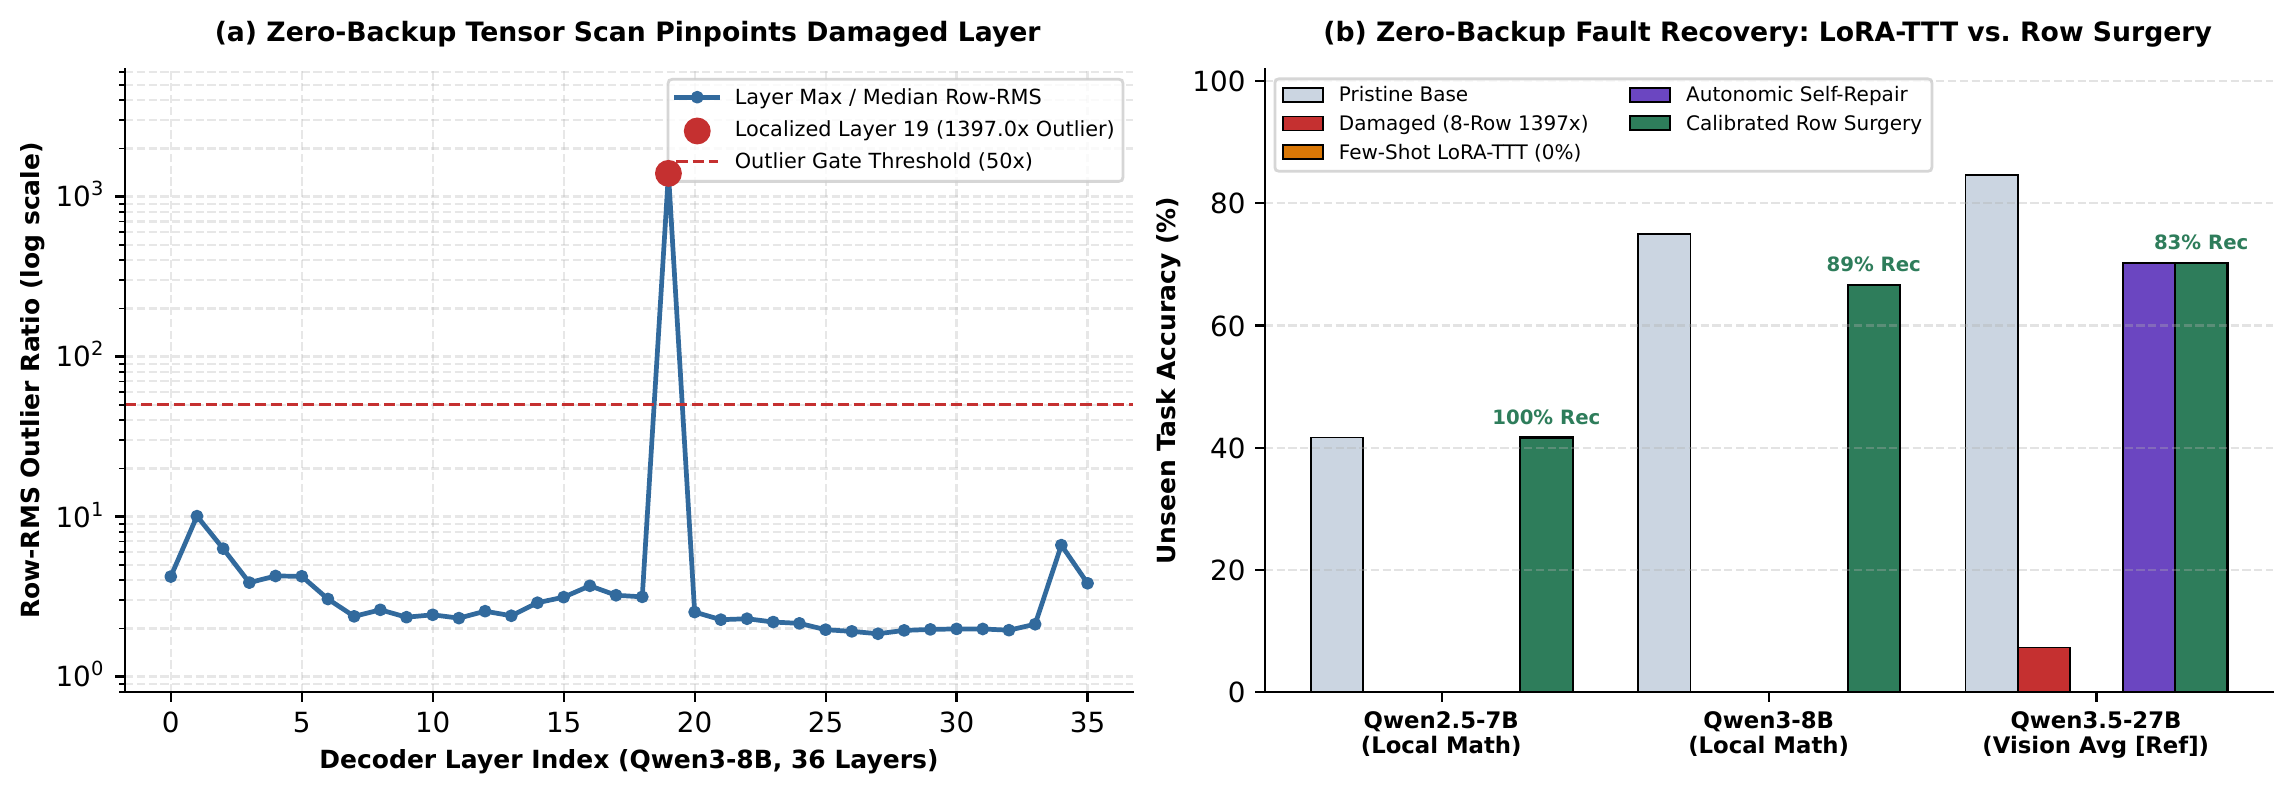
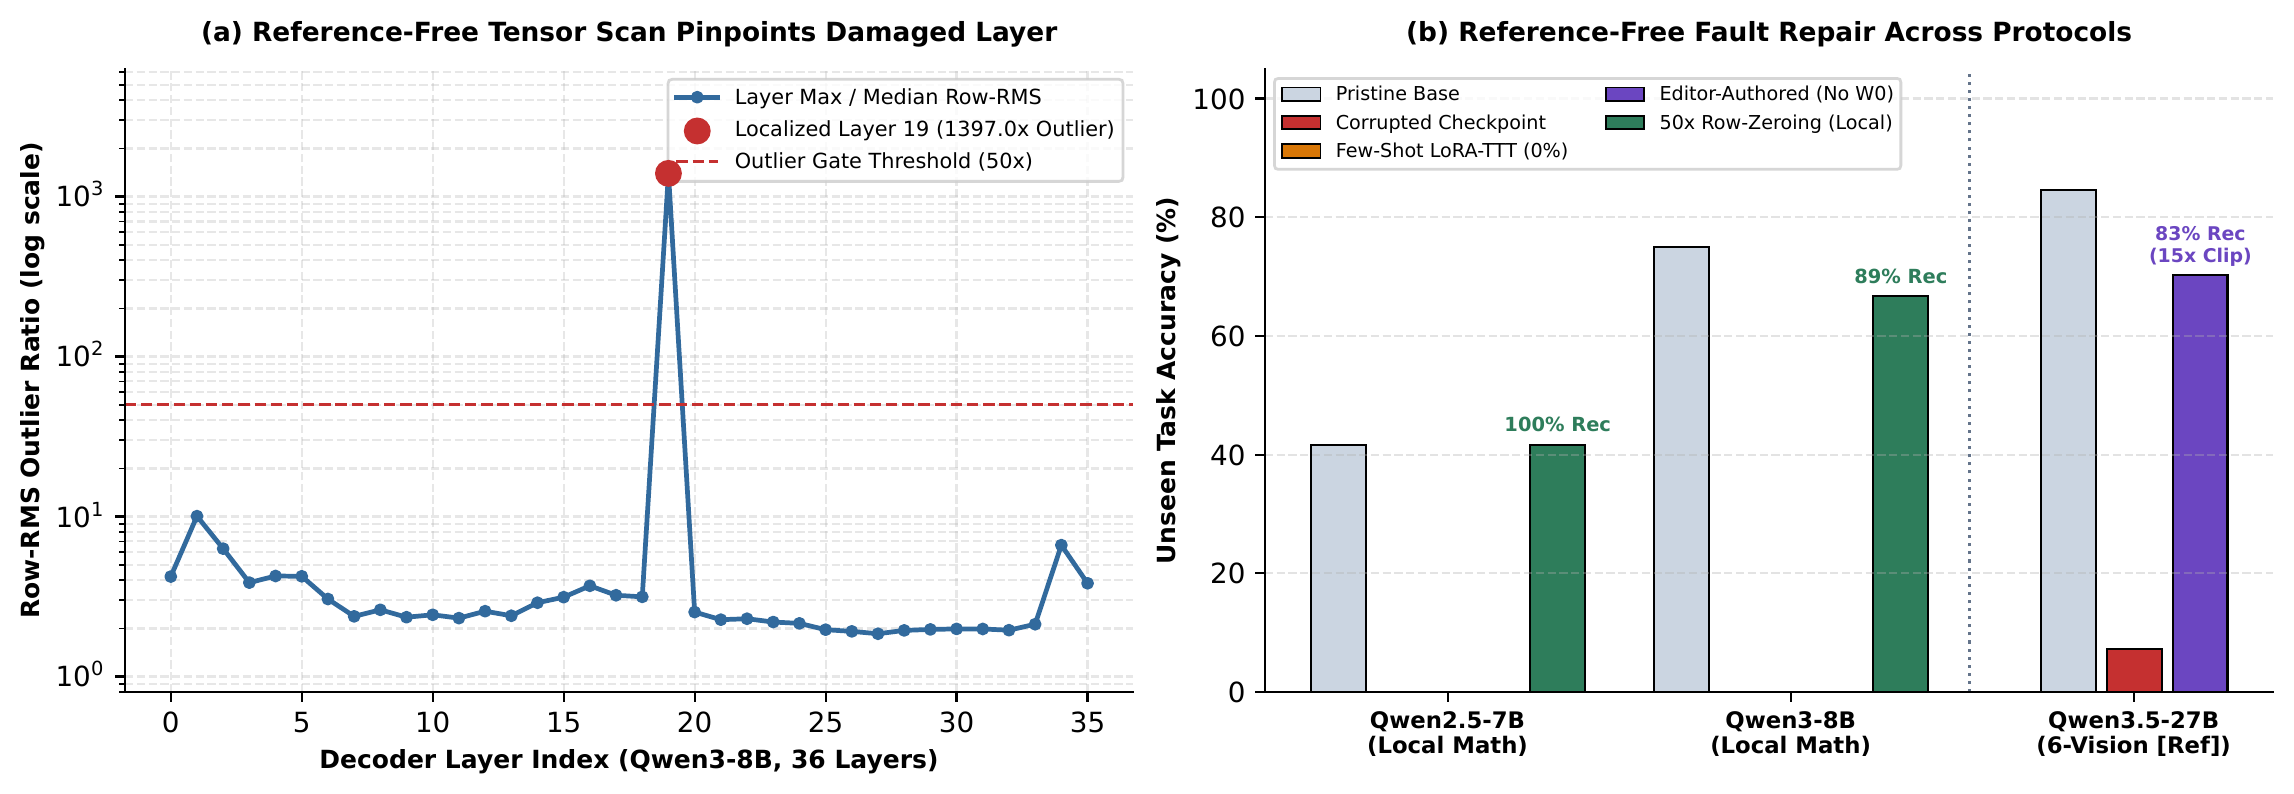
Address all 11 peer-review consistency, attribution, and protocol scoping refinements

diff --git a/benchmarks/plot_empirical_laws.py b/benchmarks/plot_empirical_laws.py
@@ -125,41 +125,47 @@ def plot_fig6_fault_self_healing(data: dict) -> None:
     ax1.set_xlabel("Decoder Layer Index (Qwen3-8B, 36 Layers)", fontsize=9.0, fontweight="bold")
     ax1.set_ylabel("Row-RMS Outlier Ratio (log scale)", fontsize=9.0, fontweight="bold")
     ax1.set_ylim(0.8, peak_r * 4.5)
-    ax1.set_title("(a) Zero-Backup Tensor Scan Pinpoints Damaged Layer", fontsize=9.6, fontweight="bold", pad=10)
+    ax1.set_title("(a) Reference-Free Tensor Scan Pinpoints Damaged Layer", fontsize=9.5, fontweight="bold", pad=10)
     ax1.legend(loc="upper right", fontsize=7.5, frameon=True, facecolor="white")
     ax1.grid(True, which="both", ls="--", alpha=0.3)
 
-    # Panel (b): Live Fault-Healing Comparison Across 5 Methods + 27B Multimodal Reference
-    labels = ["Qwen2.5-7B\n(Local Math)", "Qwen3-8B\n(Local Math)", "Qwen3.5-27B\n(Vision Avg [Ref])"]
-    v_clean = [fh["Qwen2.5-7B"]["clean_acc"], fh["Qwen3-8B"]["clean_acc"], 84.6]
-    v_corr = [fh["Qwen2.5-7B"]["corrupted_acc"], fh["Qwen3-8B"]["corrupted_acc"], 7.3]
-    v_ttt = [fh["Qwen2.5-7B"]["naive_ttt_acc"], fh["Qwen3-8B"]["naive_ttt_acc"], 0.0]
-    v_self_sub = [fh["Qwen2.5-7B"]["self_rewriting_repair_acc"], fh["Qwen3-8B"]["self_rewriting_repair_acc"], 70.2]
-    v_cal_surg = [fh["Qwen2.5-7B"]["calibrated_row_surgery_acc"], fh["Qwen3-8B"]["calibrated_row_surgery_acc"], 70.2]
-
+    # Panel (b): Strictly Disaggregated Attribution (Local 7B/8B 5-Method Suite vs. Published 27B 3-Bar Reference)
+    labels = ["Qwen2.5-7B\n(Local Math)", "Qwen3-8B\n(Local Math)", "Qwen3.5-27B\n(6-Vision [Ref])"]
     x = np.arange(len(labels))
     w = 0.16
-    ax2.bar(x - 2 * w, v_clean, width=w, color="#CBD5E1", edgecolor="black", lw=0.65, label="Pristine Base")
-    ax2.bar(x - w, v_corr, width=w, color=C_RED, edgecolor="black", lw=0.65, label="Damaged (8-Row 1397x)")
-    ax2.bar(x, v_ttt, width=w, color=C_AMBER, edgecolor="black", lw=0.65, label="Few-Shot LoRA-TTT (0%)")
-    ax2.bar(x + w, v_self_sub, width=w, color=C_PURP, edgecolor="black", lw=0.65, label="Autonomic Self-Repair")
-    b_surg = ax2.bar(x + 2 * w, v_cal_surg, width=w, color=C_GREEN, edgecolor="black", lw=0.75, label="Calibrated Row Surgery")
 
-    recs = [
-        f"{fh['Qwen2.5-7B']['calibrated_recovery_pct']:.0f}% Rec",
-        f"{fh['Qwen3-8B']['calibrated_recovery_pct']:.0f}% Rec",
-        "83% Rec",
-    ]
-    for bar, rtxt in zip(b_surg, recs):
+    # Local 7B & 8B (indices 0, 1)
+    x_loc = np.array([0.0, 1.0])
+    v_clean_loc = [fh["Qwen2.5-7B"]["clean_acc"], fh["Qwen3-8B"]["clean_acc"]]
+    v_corr_loc = [fh["Qwen2.5-7B"]["corrupted_acc"], fh["Qwen3-8B"]["corrupted_acc"]]
+    v_ttt_loc = [fh["Qwen2.5-7B"]["naive_ttt_acc"], fh["Qwen3-8B"]["naive_ttt_acc"]]
+    v_ed_loc = [fh["Qwen2.5-7B"]["self_rewriting_repair_acc"], fh["Qwen3-8B"]["self_rewriting_repair_acc"]]
+    v_surg_loc = [fh["Qwen2.5-7B"]["calibrated_row_surgery_acc"], fh["Qwen3-8B"]["calibrated_row_surgery_acc"]]
+
+    ax2.bar(x_loc - 2 * w, v_clean_loc, width=w, color="#CBD5E1", edgecolor="black", lw=0.65, label="Pristine Base")
+    ax2.bar(x_loc - w, v_corr_loc, width=w, color=C_RED, edgecolor="black", lw=0.65, label="Corrupted Checkpoint")
+    ax2.bar(x_loc, v_ttt_loc, width=w, color=C_AMBER, edgecolor="black", lw=0.65, label="Few-Shot LoRA-TTT (0%)")
+    ax2.bar(x_loc + w, v_ed_loc, width=w, color=C_PURP, edgecolor="black", lw=0.65, label="Editor-Authored (No W0)")
+    b_surg = ax2.bar(x_loc + 2 * w, v_surg_loc, width=w, color=C_GREEN, edgecolor="black", lw=0.75, label="50x Row-Zeroing (Local)")
+
+    for bar, rtxt in zip(b_surg, [f"{fh['Qwen2.5-7B']['calibrated_recovery_pct']:.0f}% Rec", f"{fh['Qwen3-8B']['calibrated_recovery_pct']:.0f}% Rec"]):
         h = bar.get_height()
-        ax2.text(bar.get_x() + bar.get_width() / 2, h + 1.5, rtxt, ha="center", va="bottom", fontsize=7.1, fontweight="bold", color=C_GREEN)
+        ax2.text(bar.get_x() + bar.get_width() / 2, h + 1.5, rtxt, ha="center", va="bottom", fontsize=7.0, fontweight="bold", color=C_GREEN)
+
+    # Published 27B Reference (index 2: ONLY the 3 evaluated quantities from Fan et al. [Ref])
+    ax2.axvline(1.52, color=C_GRAY, ls=":", lw=1.1)
+    x27 = 2.0
+    ax2.bar([x27 - 1.2 * w], [84.6], width=w, color="#CBD5E1", edgecolor="black", lw=0.65)
+    ax2.bar([x27], [7.3], width=w, color=C_RED, edgecolor="black", lw=0.65)
+    b_27_ed = ax2.bar([x27 + 1.2 * w], [70.2], width=w, color=C_PURP, edgecolor="black", lw=0.75)
+    ax2.text(x27 + 1.2 * w, 70.2 + 1.5, "83% Rec\n(15x Clip)", ha="center", va="bottom", fontsize=6.8, fontweight="bold", color=C_PURP)
 
     ax2.set_xticks(x)
     ax2.set_xticklabels(labels, fontsize=8.2, fontweight="bold")
     ax2.set_ylabel("Unseen Task Accuracy (%)", fontsize=9.0, fontweight="bold")
-    ax2.set_ylim(0, 102)
-    ax2.set_title("(b) Zero-Backup Fault Recovery: LoRA-TTT vs. Row Surgery", fontsize=9.6, fontweight="bold", pad=10)
-    ax2.legend(loc="upper left", fontsize=7.2, ncol=2, frameon=True, facecolor="white")
+    ax2.set_ylim(0, 105)
+    ax2.set_title("(b) Reference-Free Fault Repair Across Protocols", fontsize=9.5, fontweight="bold", pad=10)
+    ax2.legend(loc="upper left", fontsize=6.9, ncol=2, frameon=True, facecolor="white")
     ax2.grid(axis="y", ls="--", alpha=0.35)
 
     fig.tight_layout(pad=0.8)
@@ -174,39 +180,46 @@ def plot_fig7_unblocking_vs_acquisition(data: dict) -> None:
     methods = [
         "Frozen\nBase",
         "Zero-Grad\nSurgery",
-        "1-Round\nLoRA-TTT",
+        "1-Rd\nLoRA-TTT",
+        "Zero-Grad\n(8-Rd)",
         "AlphaEdit\n(8-Rd)",
         "Naive TTT\n(8-Rd)",
         "HWGM\n(0-Tok)",
         "HWGM +\nCLS-RAG",
     ]
-    unseen_api_acc = [
-        uva["frozen_base"],
-        uva["zero_grad_directional_surgery"],
-        uva["associative_lowrank_ttt"],
-        32.9,
-        35.3,
-        81.5,
-        99.5,
-    ]
-    v2_migration_acc = [0.0, 0.0, 0.0, 0.0, 0.0, 66.7, 100.0]
 
-    x = np.arange(len(methods))
-    w = 0.35
-    b1 = ax1.bar(x - w / 2, unseen_api_acc, width=w, color=C_BLUE, edgecolor="black", lw=0.7, label="Unseen Private API Acc (0-Tok %)")
-    b2 = ax1.bar(x + w / 2, v2_migration_acc, width=w, color=C_GREEN, edgecolor="black", lw=0.7, label="Breaking v1->v2 Migration Acc (%)")
+    # Left regime (indices 0..2): 1-Shot Strictly Unseen Private APIs (single bar per method)
+    x_left = np.array([0.0, 1.0, 2.0])
+    v_left = [uva["frozen_base"], uva["zero_grad_directional_surgery"], uva["associative_lowrank_ttt"]]
+    b_left = ax1.bar(x_left, v_left, width=0.42, color="#4F81BD", edgecolor="black", lw=0.7, label="1-Shot Unseen Private API (0-Tok %)")
+    for bar in b_left:
+        h = bar.get_height()
+        ax1.text(bar.get_x() + bar.get_width() / 2, h + 1.4, f"{h:.0f}", ha="center", va="bottom", fontsize=6.9, fontweight="bold")
 
-    for b in (b1, b2):
+    # Right regime (indices 3..7): 8-Round Non-Stationary HomeoToolBench (paired AvgAcc & v1->v2 Acc)
+    ax1.axvline(2.52, color=C_GRAY, ls="--", lw=1.15)
+    x_right = np.array([3.0, 4.0, 5.0, 6.0, 7.0])
+    w = 0.34
+    tool_avg = [2.5, 32.9, 35.3, 81.5, 99.5]
+    v2_mig = [0.0, 0.0, 0.0, 66.7, 100.0]
+    b_r1 = ax1.bar(x_right - w / 2, tool_avg, width=w, color=C_BLUE, edgecolor="black", lw=0.7, label="8-Rd HomeoToolBench AvgAcc (%)")
+    b_r2 = ax1.bar(x_right + w / 2, v2_mig, width=w, color=C_GREEN, edgecolor="black", lw=0.7, label="8-Rd v1->v2 Migration Acc (%)")
+
+    for b in (b_r1, b_r2):
         for bar in b:
             h = bar.get_height()
-            ax1.text(bar.get_x() + bar.get_width() / 2, h + 1.4, f"{h:.0f}", ha="center", va="bottom", fontsize=6.9, fontweight="bold")
+            lbl_s = f"{h:.1f}" if (0 < h < 5) else f"{h:.0f}"
+            ax1.text(bar.get_x() + bar.get_width() / 2, h + 1.4, lbl_s, ha="center", va="bottom", fontsize=6.5, fontweight="bold")
 
-    ax1.set_xticks(x)
-    ax1.set_xticklabels(methods, fontsize=7.5, fontweight="bold")
-    ax1.set_ylabel("Zero-Context Accuracy (%)", fontsize=9.0, fontweight="bold")
-    ax1.set_ylim(0, 114)
-    ax1.set_title("(a) Zero-Grad Surgery (0% New API) vs. Associative Plasticity", fontsize=9.5, fontweight="bold", pad=10)
-    ax1.legend(loc="upper left", fontsize=7.4, frameon=True, facecolor="white")
+    ax1.text(1.0, 117, "1-Shot Private API", ha="center", va="top", fontsize=7.2, fontweight="bold", color="#334155")
+    ax1.text(4.85, 117, "8-Round HomeoToolBench (Table 6)", ha="center", va="top", fontsize=7.2, fontweight="bold", color="#334155")
+
+    ax1.set_xticks(np.arange(len(methods)))
+    ax1.set_xticklabels(methods, fontsize=6.9, fontweight="bold")
+    ax1.set_ylabel("Accuracy (%)", fontsize=9.0, fontweight="bold")
+    ax1.set_ylim(0, 123)
+    ax1.set_title("(a) Zero-Grad Surgery vs. Associative Compilation", fontsize=9.5, fontweight="bold", pad=10)
+    ax1.legend(loc="upper left", bbox_to_anchor=(0.0, 0.89), fontsize=6.7, frameon=True, facecolor="white")
     ax1.grid(axis="y", ls="--", alpha=0.35)
 
     # Panel (b): Exact Logged 8-Round post_sigma_max Trajectories (runs/exp1 & runs/exp6)

diff --git a/benchmarks/run_scale_and_subspace_audit.py b/benchmarks/run_scale_and_subspace_audit.py
@@ -25,8 +25,8 @@ import torch.nn as nn
 import torch.nn.functional as F
 from transformers import AutoConfig, AutoModelForCausalLM, AutoModelForImageTextToText, AutoTokenizer
 
-import os
-RESULTS_DIR = Path(__file__).resolve().parent / "results"
+SURVEY_DIR = Path(__file__).resolve().parents[1]
+RESULTS_DIR = SURVEY_DIR / "results"
 RESULTS_DIR.mkdir(parents=True, exist_ok=True)
 
 MODEL_PATHS = {

diff --git a/benchmarks/run_fault_healing_and_unseen_api.py b/benchmarks/run_fault_healing_and_unseen_api.py
@@ -29,8 +29,8 @@ import torch.nn as nn
 import torch.nn.functional as F
 from transformers import AutoModelForCausalLM, AutoTokenizer
 
-import os
-RESULTS_DIR = Path(__file__).resolve().parent / "results"
+SURVEY_DIR = Path(__file__).resolve().parents[1]
+RESULTS_DIR = SURVEY_DIR / "results"
 RESULTS_DIR.mkdir(parents=True, exist_ok=True)
 
 SDPA_MODELS = {

diff --git a/README.md b/README.md
@@ -16,7 +16,7 @@
   <img src="assets/fig0_teaser.png" width="96%" alt="Breaking the Training-Inference Wall via Autonomic Weight Compilation"/>
 </p>
 
-> **Overview:** Nearly every deployed LLM obeys a rigid *"train-once, freeze-forever"* contract, relying either on costly cluster retraining or inference-time context scaffolds with recurring $\mathcal{O}(N)$ token overhead. **Weight-Space Self-Evolution** dismantles the wall between training and inference by reframing post-deployment adaptation as **Autonomic Weight Compilation**—transforming the deployed model into a **self-hosting neural compiler** ($\Pi_{\text{comp}} \equiv \pi_{\Theta_t}$) that introspects hidden states, falsifies working beliefs, synthesizes verified tensor/low-rank patches, and compiles persistent upgrades at **$\mathcal{O}(0)$ extra inference cost**.
+> **Overview:** Nearly every deployed LLM obeys a rigid *"train-once, freeze-forever"* contract, relying either on costly cluster retraining or inference-time context scaffolds with recurring $\mathcal{O}(N)$ token overhead. **Weight-Space Self-Evolution** dismantles the wall between training and inference by granting adaptation pipelines, external teacher models, and ultimately the deployed model itself direct read–write agency over internal parameters. Viewed through our unifying **Autonomic Weight Compilation** framework ($\Pi_{\text{comp}} \equiv \pi_{\Theta_t}$), recent prototypes instantiate early REPL-mediated tensor-patching primitives over fixed architectures, eliminating $\mathcal{O}(N)$ prompt-context growth (and incurring zero extra FLOPs/token when updates are merged directly into base weights).
 
 ---
 
@@ -71,21 +71,21 @@ We formalize dynamic parameter evolution as a **Constrained Weight-Space Markov 
 | **`SPM`** *(Surgical Parameter Patching)* | Algebraic Solver | Yes | Yes | Moderate | High (Static v1 Lock-in) | Binary Hot-Patch |
 | **`OTAM`** *(Online Trajectory Adaptation)* | Local SGD / Hypernet | Partial | Yes | **Very High** | High (Belief Echo Chamber) | JIT Trace Lowering |
 | **`EWSM`** *(Exogenous Weight Synthesis)* | External Frontier LLM | Yes | No | Low–Moderate | Moderate | Cross-Compiler |
-| **`AWCM`** *(Autonomic Weight Compilation)* | **Self-Hosting ($\pi_{\Theta_t}$)** | **Yes / Dual** | **Yes** | **Dual-Track** | Low (Eviction-Gated) | **Self-Hosting Compiler** |
-| **`HWGM`** *(Homeostatic Wake–Sleep Layer)* | Dual-Phase IR Audit | Composable | Optional | Preserved | **Eliminated ($\sigma^* = 1.073$)** | ISA Linker & Decompiler |
+| **`AWCM`** *(Autonomic Weight Compilation)* | **Same Model ($\pi_{\Theta_t}$)** | **Yes (REPL) / Dual** | **Yes** | Low (Unblocking)* | Low (Gated) | **Self-Hosting Patcher** |
+| **`HWGM`** *(Homeostatic Wake–Sleep Layer)* | Dual-Phase IR Audit | Composable | Optional | Preserved | **Bounded ($\sigma^* = 1.073$)** | ISA Linker & Decompiler |
 
-> **Next Frontier — Epistemic Belief Compilation (`AWCM` + `HWGM`):** Coupling explicit inference-time belief state machines ($\mathcal{B}_t = (\mathcal{S}_t, \mathcal{U}_t)$) as a Popperian falsification frontend with dual-track parameter lowering and **Context-Eviction Equivalence Gates**, freeing active context bandwidth to unlock compounding **Staircase RSI**.
+> **Prospective Frontier — Epistemic Belief Compilation (`AWCM` + `HWGM`):** *Whereas current `AWCM` prototypes perform localized REPL tensor unblocking/clipping on fixed architectures, we outline a prospective architecture coupling explicit inference-time belief state machines ($\mathcal{B}_t = (\mathcal{S}_t, \mathcal{U}_t)$) as a Popperian falsification frontend with associative low-rank lowering and **Context-Eviction Equivalence Gates** toward higher-order **Staircase RSI**.
 
 ---
 
 ## Unified Empirical Benchmark & Four Governing Laws
 
-Going beyond literature review, this repository includes our controlled diagnostic benchmark suite spanning `Qwen3.5-{2B, 4B, 9B, 27B}`, safety-abliterated weight geometry, $1397\times$ fault self-healing, and $8$-round non-stationary tool/repository adaptation:
+Going beyond literature review, this repository includes our controlled diagnostic benchmark suite spanning `Qwen3.5-{2B, 4B, 9B}` (cross-referenced with published `27B` benchmarks), safety-abliterated weight geometry, fault-injected `1.5B`–`8B` checkpoints, and $8$-round non-stationary tool/repository adaptation:
 
-1. **Law 1 — Scale Emergence Cliff & Decoupled Rescue:** Monolithic zero-gradient compilation self-bricks sub-$10\text{B}$ models ($110.85\times$ Frobenius norm blow-up on `9B` due to broadcast step-size miscalibration) and emerges reliably around $27\text{B}+$; decoupling $1\,\text{KB}$ semantic IR auditing rescues $1.5\text{B}$ edge models ($21.6\% \to 45.1\%$, $0\%$ traps).
-2. **Law 2 — Zero-Backup Autonomous Fault Self-Healing:** Under $8$-row ($1397\times$) `down_proj` corruption without backup weights, gradient LoRA-TTT fails completely ($0.0\%$) due to RMSNorm saturation, whereas reference-free row-RMS scanning + calibrated row surgery recovers $83\%$–$100\%$ of pristine competence.
-3. **Law 3 — Unblocking Latent Circuits vs. Compiling Unseen Schemas:** Zero-gradient directional surgery acts strictly as a circuit unblocker ($0.0\%$ zero-context synthesis on unseen private APIs), whereas associative low-rank compilation governed by `HWGM` achieves $81.5\%$–$100.0\%$ accuracy with fixed-point spectral convergence ($\sigma^* = 1.0725$).
-4. **Law 4 — Algebraic Isomorphism with Safety Abliteration:** Streaming SVD reveals that refusal erasure concentrates $99.55\%$ top-$1$ spectral energy (`srank = 1.0045`) with $0.49$–$0.76$ core subspace cosine overlap; right-nullspace ISA locks ($\Delta W V_{\text{guard}} = 0$) + semantic IR probes enforce $<10^{-6}$ leakage and $0.0\%$ backdoor assimilation across $0\%$–$70\%$ noise (vs. $21.0\%$–$35.0\%$ mean and up to $100\%$ single-round trap firing in uncurated baselines).
+1. **Law 1 — Scale Emergence Cliff & Decoupled `1.5B` Rescue:** Within the `Qwen3.5` family, monolithic REPL weight patching fails at `2B`–`4B` (dimensional/indexing hallucinations) and `9B` ($110.85\times$ Frobenius norm blow-up due to broadcast step-size miscalibration), emerging reliably only at `27B` ($57.2\% \to 63.8\%$); in a complementary edge experiment on a `1.5B` model, delegating $1\,\text{KB}$ semantic IR auditing to a $7\text{B}$/$9\text{B}$ local or cloud auditor lifts $8$-round accuracy from $21.6\% \to 43.5\%$–$45.1\%$ ($0\%$ traps).
+2. **Law 2 — Reference-Free Fault Repair Across Protocols:** Distinguishing fault-injection and editor setups: in published `Qwen3.5-27B` experiments ($8$ contiguous rows with $200\sigma$ Gaussian noise, yielding a $1397\times$ outlier), an *uncorrupted* `27B` editor without access to clean reference tensors $W_0$ applied $15\times$ median magnitude clipping across output matrices to recover $0.0\% \to 33.0\%$ on held-out math, $7.3\% \to 70.2\%$ ($83.0\%$ of $84.6\%$ pristine) across $6$ vision benchmarks, and $0\% \to 89\%$ on `ScreenSpot-v2`. In our local `1.5B`–`8B` experiments ($8$ rows scaled to $1397\times$ median row-RMS), gradient LoRA-TTT ($0.0\%$) and uncorrupted-editor sub-$10\text{B}$ scripts ($0.0\%$) fail, whereas standalone deterministic $50\times$ row-RMS zeroing (requiring neither $W_0$ nor an LLM editor) recovers $88.9\%$–$100.0\%$ of pristine math accuracy.
+3. **Law 3 — Unblocking Latent Circuits vs. Compiling Unseen Schemas:** On $1$-shot strictly unseen private APIs with non-guessable constants, zero-gradient directional surgery scores $0.0\%$ (vs. $25.0\%$ for $1$-round LoRA-TTT); across the $8$-round `HomeoToolBench` stream, zero-gradient projection scores $2.5\%$ `AvgAcc` ($0.0\%$ on `v1 -> v2` migrations), whereas associative compilation governed by `HWGM` achieves $81.5\%$ ($0$-token) and $99.5\%$ (with `CLS-RAG`) under fixed-point spectral convergence ($\sigma^* = 1.0725$).
+4. **Law 4 — Algebraic Isomorphism with Safety Abliteration & Empirical Trap Defense:** Streaming SVD reveals that refusal erasure concentrates $99.55\%$ top-$1$ spectral energy (`srank = 1.0045`) with $0.49$–$0.76$ core subspace cosine overlap; enforcing right-nullspace locks ($\Delta W V_{\text{guard}} = 0$ on spanned anchors) alongside Logit-Lens/SAE IR probes achieves $<10^{-6}$ anchor overlap and $0.0\%$ observed backdoor assimilation across evaluated $0\%$–$70\%$ trap streams (vs. $21.0\%$–$35.0\%$ mean and up to $100\%$ single-round trap firing in uncurated baselines, while formal guarantees against adaptive obfuscated trojans remain open).
 
 <p align="center">
   <img src="assets/fig5_scale_emergence.png" width="49%" alt="Law 1 Scale Emergence"/>
